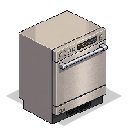
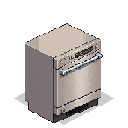
fix(virtual-house): orient washing machine SE and fit dishwasher inside tile

Changed region(s): [[0.0625, 0.0625, 0.9375, 1.0], [0.7188, 0.5938, 0.75, 0.625]]

diff --git a/src/components/wedding/PublicVirtualHouse.tsx b/src/components/wedding/PublicVirtualHouse.tsx
@@ -63,7 +63,7 @@ const FURNITURE_ICONS: Record<string, string> = {
 
 const SCENE_WIDTH = 1220;
 const SCENE_HEIGHT = (9 + 6) * (TILE_H / 2) + 260; // 740
-const ASSET_VERSION = "36";
+const ASSET_VERSION = "37";
 
 const STRUCTURAL_ITEMS = ["foundation", "floor_coverings", "walls", "painting", "doors_windows", "roof", "electric", "plumbing"];
 

diff --git a/src/components/wedding/DashboardVirtualHouse.tsx b/src/components/wedding/DashboardVirtualHouse.tsx
@@ -41,7 +41,7 @@ const ROOM_DISPLAY = {
 
 const SCENE_WIDTH = 1220;
 const SCENE_HEIGHT = (9 + 6) * (TILE_H / 2) + 260; // 740
-const ASSET_VERSION = "36";
+const ASSET_VERSION = "37";
 
 const STRUCTURAL_ITEMS = ["foundation", "floor_coverings", "walls", "painting", "doors_windows", "roof", "electric", "plumbing"];
 
